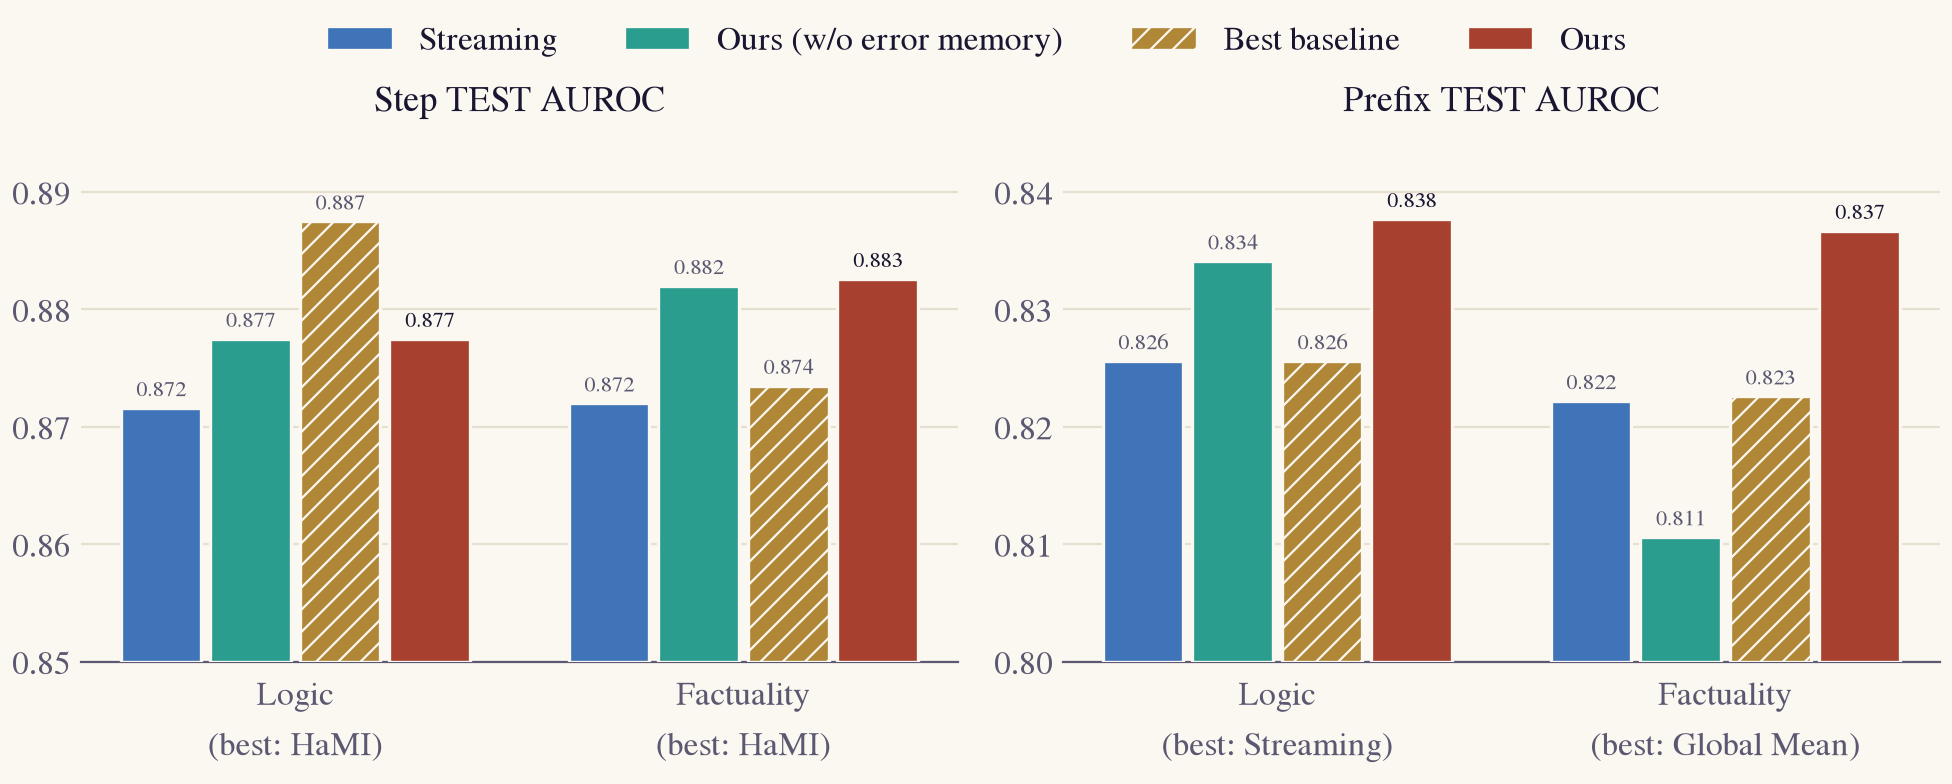
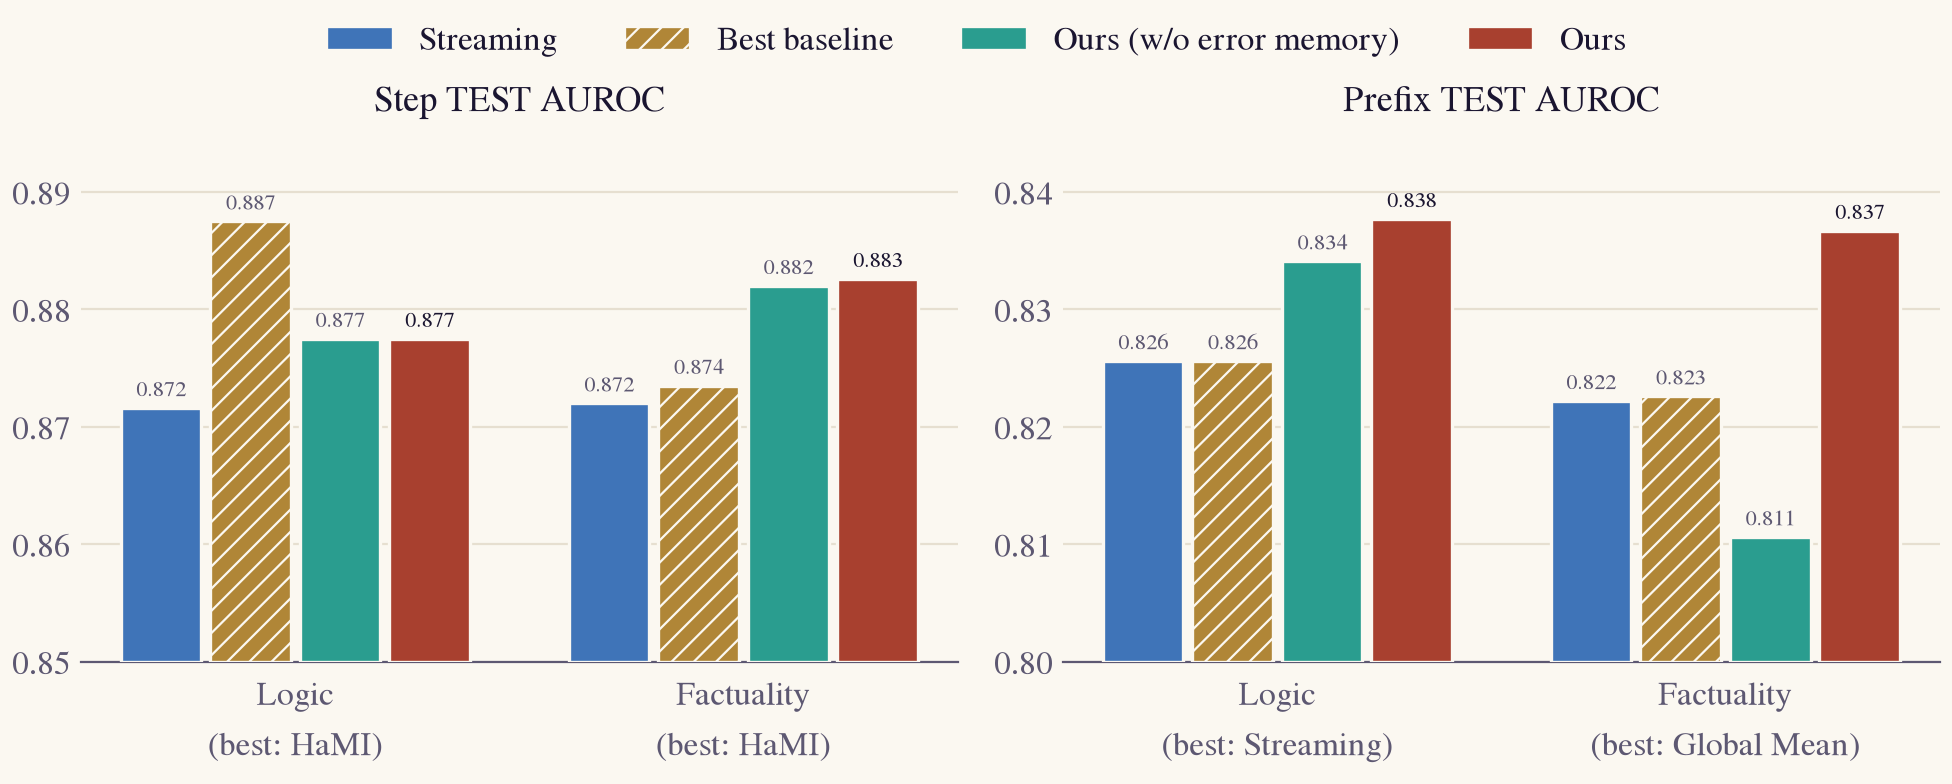
weekly: order result bars as Streaming, best baseline, ablation, Ours

diff --git a/weekly/scripts/2026-11-18_a2.py b/weekly/scripts/2026-11-18_a2.py
@@ -43,8 +43,8 @@ def save(fig, name):
     print("wrote", OUT / name)
 
 
-SERIES = [("Streaming", STREAMING, ""), ("Ours (w/o error memory)", ABLATION, ""),
-          ("Best baseline", BASELINE, "///"), ("Ours", OURS, "")]
+SERIES = [("Streaming", STREAMING, ""), ("Best baseline", BASELINE, "///"),
+          ("Ours (w/o error memory)", ABLATION, ""), ("Ours", OURS, "")]
 
 
 def bars(ax, x, values, lo, hi, best_name, domains):
@@ -67,9 +67,9 @@ def bars(ax, x, values, lo, hi, best_name, domains):
 
 def results():
     domains = ["Logic", "Factuality"]; x = np.arange(2)
-    panels = [  # Streaming, A1, best baseline, A2
-        ("Step", [[0.8716, 0.8720], [0.8775, 0.8820], [0.8875, 0.8735], [0.8775, 0.8826]], ["HaMI", "HaMI"], (0.85, 0.895)),
-        ("Prefix", [[0.8256, 0.8222], [0.8341, 0.8106], [0.8256, 0.8226], [0.8377, 0.8367]], ["Streaming", "Global Mean"], (0.80, 0.845)),
+    panels = [  # Streaming, best baseline, A1, A2
+        ("Step", [[0.8716, 0.8720], [0.8875, 0.8735], [0.8775, 0.8820], [0.8775, 0.8826]], ["HaMI", "HaMI"], (0.85, 0.895)),
+        ("Prefix", [[0.8256, 0.8222], [0.8256, 0.8226], [0.8341, 0.8106], [0.8377, 0.8367]], ["Streaming", "Global Mean"], (0.80, 0.845)),
     ]
     fig, axes = plt.subplots(1, 2, figsize=(10.0, 3.8), dpi=200)
     for ax, (title, values, best_name, (lo, hi)) in zip(axes, panels):
@@ -83,7 +83,7 @@ def results():
 
 def recovery():
     domains = ["Logic", "Factuality"]; x = np.arange(2)
-    values = [[0.7020, 0.7205], [0.7073, 0.6895], [0.7020, 0.7233], [0.7204, 0.7476]]
+    values = [[0.7020, 0.7205], [0.7020, 0.7233], [0.7073, 0.6895], [0.7204, 0.7476]]
     fig, ax = plt.subplots(figsize=(10.0, 3.6), dpi=200)
     bars(ax, x, values, 0.65, 0.76, ["Streaming", "Global Mean"], domains)
     ax.set_title("Prefix Recovery TEST AUROC", fontsize=13, color=INK, pad=8)
